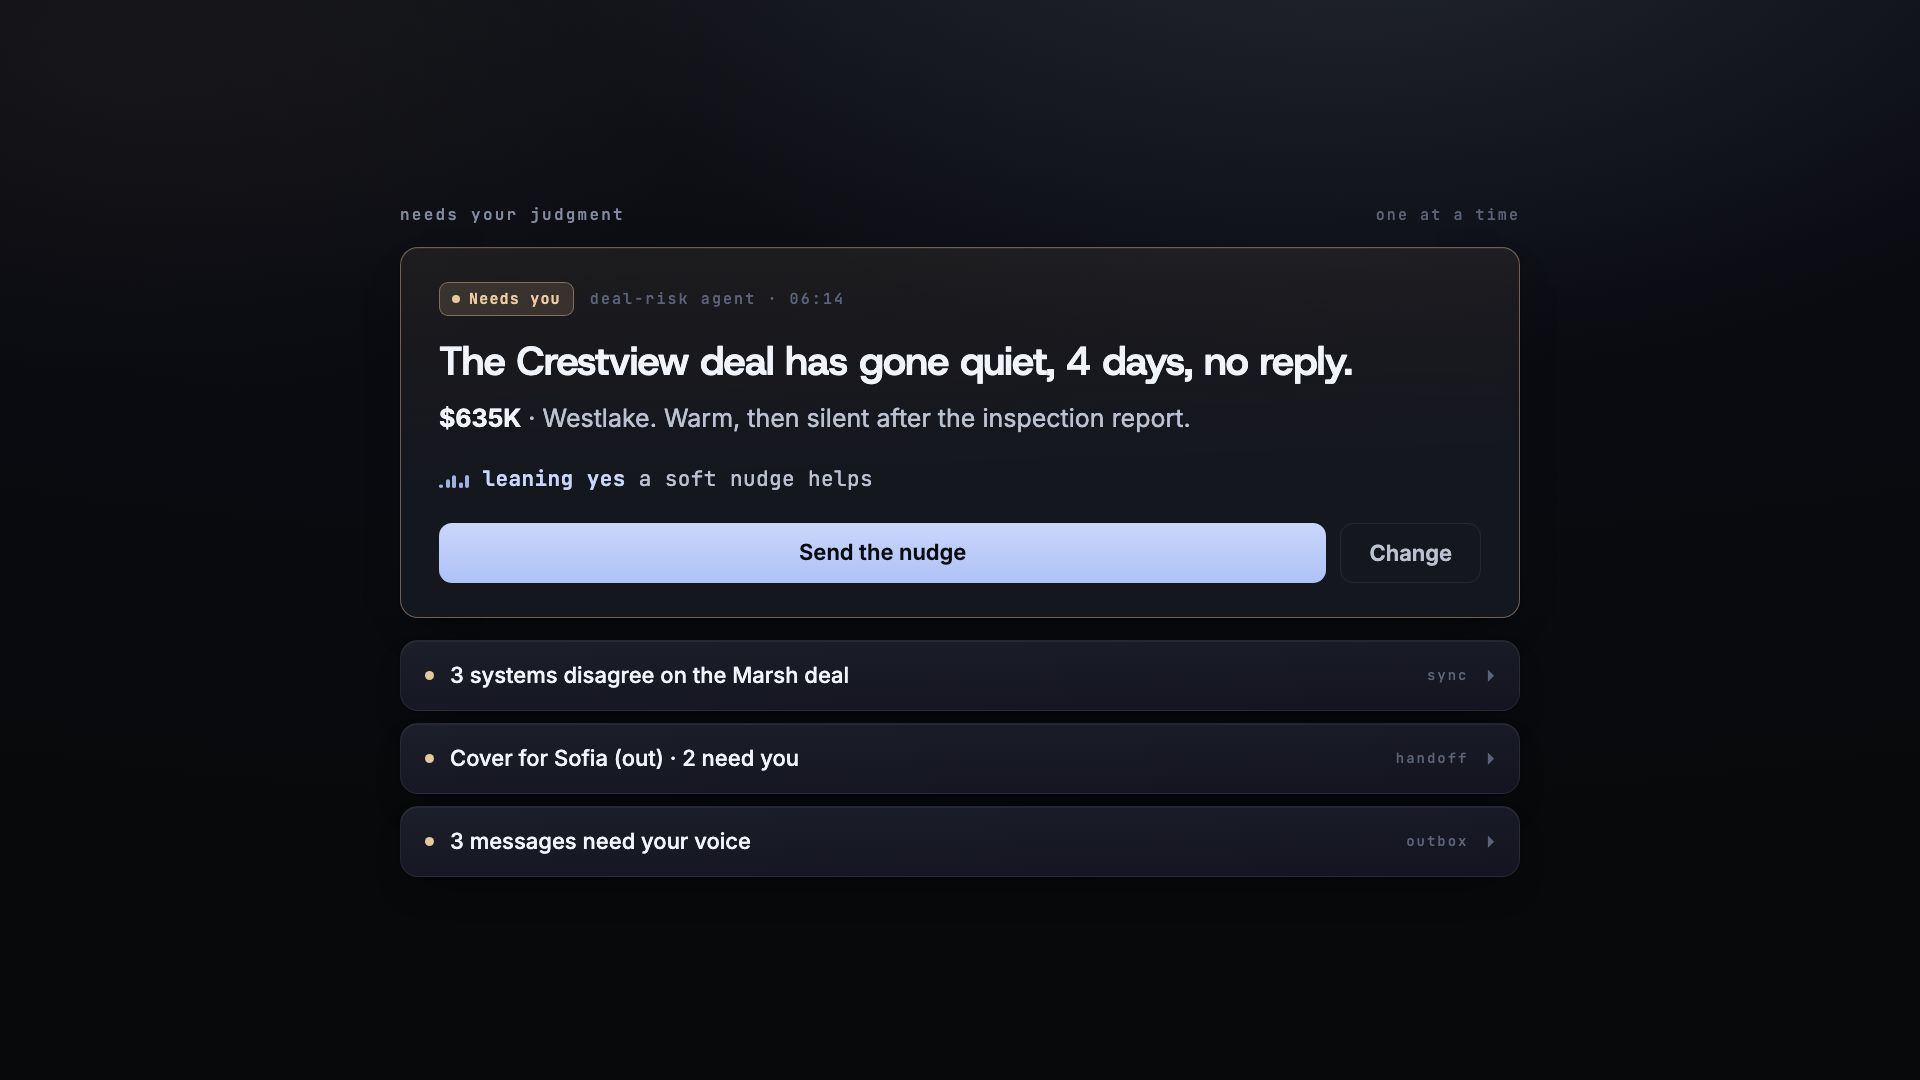
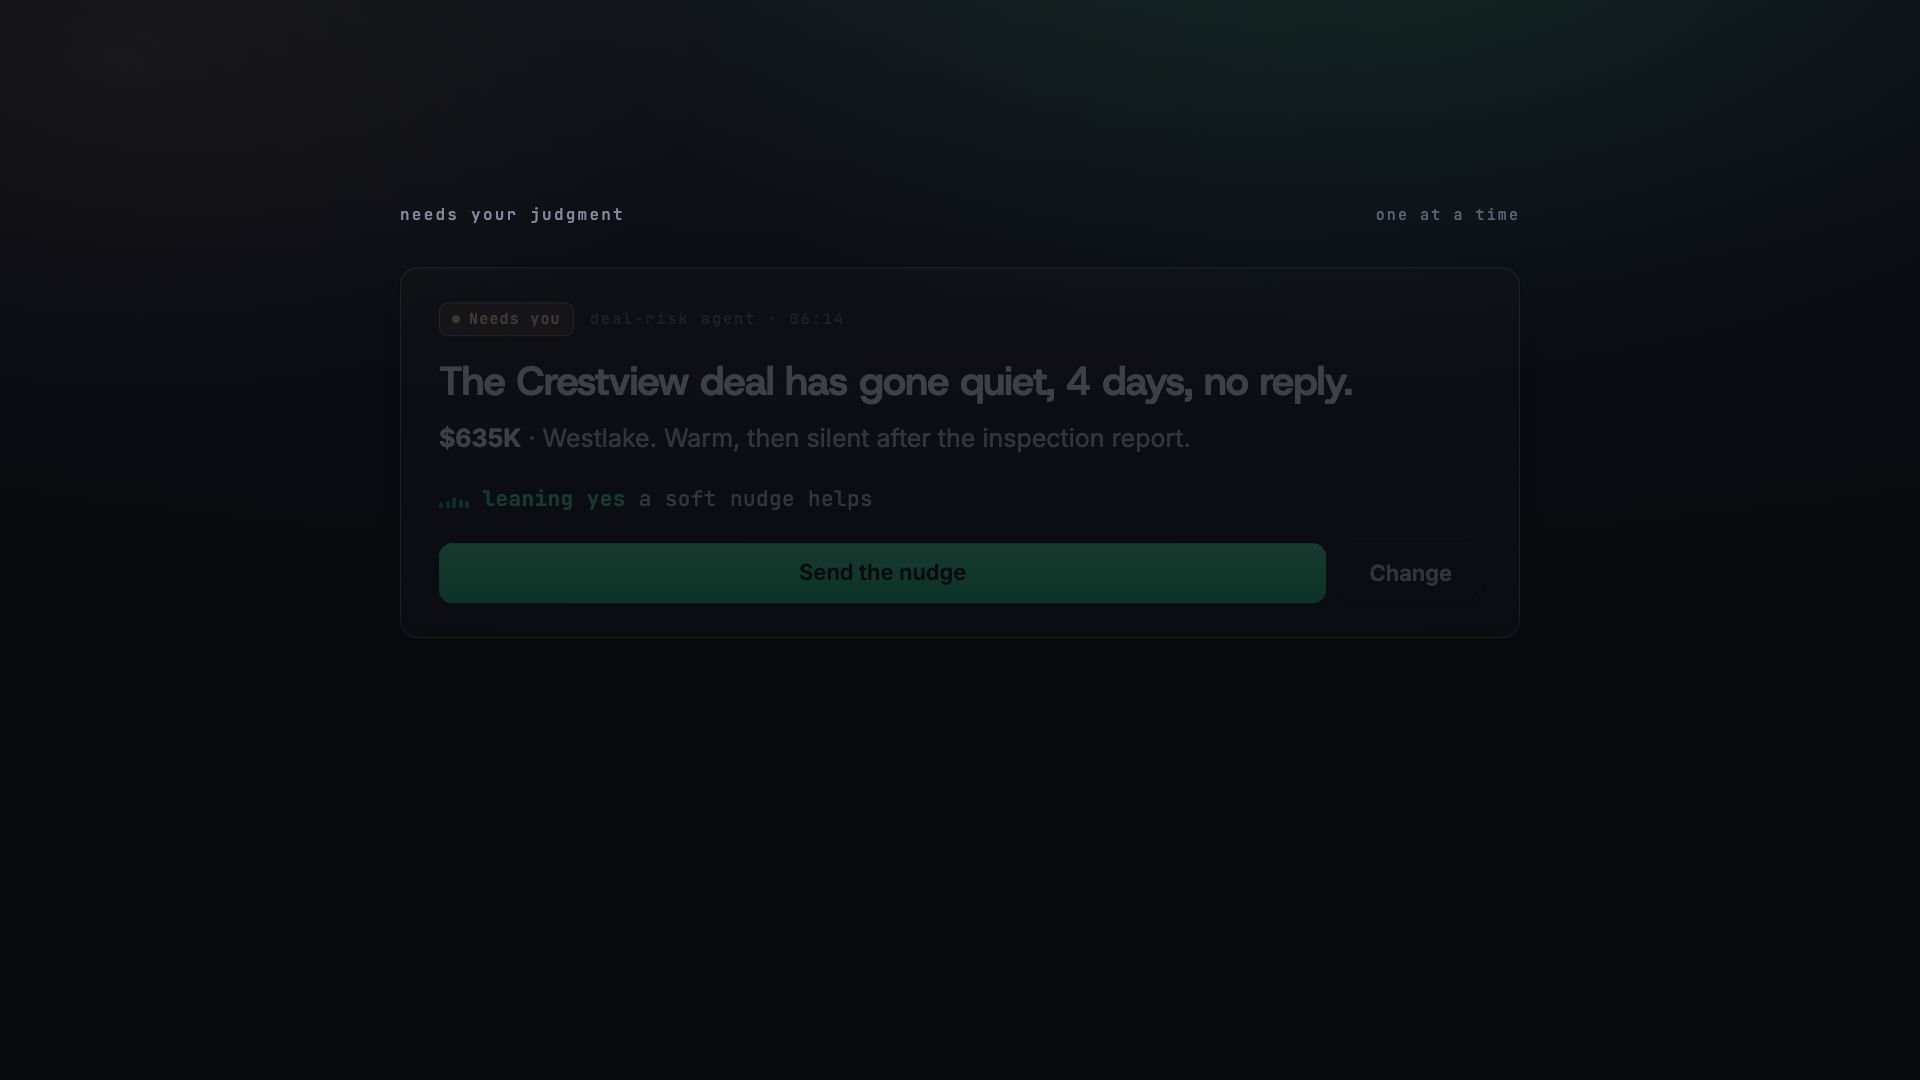
Re-render all 3 product films in emerald; sync README + film source off periwinkle
- films/src (theme, components, all 3 compositions): periwinkle tokens
  recolored to the emerald system, every residual rgb caught
- films/*.mp4 + posters: re-rendered clean (no edits mid-batch)
- README.md: 'periwinkle world' globe copy -> emerald
- films/README.md: dropped the stale 'still periwinkle' note; fixed a
  stray '62%' to 'leaning yes' (no fake percentages, per thesis)
- removed stale .vercel/output periwinkle build cache (untracked)

Changed region(s): [[0.1875, 0.2444, 0.8125, 0.825]]

diff --git a/films/src/theme.ts b/films/src/theme.ts
@@ -1,6 +1,6 @@
 /**
  * Real · morning command center — brand tokens.
- * Dark premium. Near-black canvas, periwinkle accent that glows on dark,
+ * Dark premium. Near-black canvas, emerald accent that glows on dark,
  * warm sand reserved for what needs a human. Matched to the prototype
  * (command-center.html) and the design system (09-design-system.md).
  */
@@ -16,15 +16,15 @@ export const C = {
   subtle: '#5C6378',
   hair: 'rgba(255,255,255,0.07)',
   hairSoft: 'rgba(255,255,255,0.04)',
-  // periwinkle: the AI, the calm, the interactive
-  accent: '#AEC2F6',
-  accentHi: '#CBD6FB',
+  // emerald: the AI, the calm, the interactive
+  accent: '#15C07A',
+  accentHi: '#46DD9B',
   accentInk: '#0B0C12',
-  accentSoft: 'rgba(174,194,246,0.14)',
-  accentLine: 'rgba(174,194,246,0.32)',
-  accentTint: 'rgba(174,194,246,0.12)',
-  good: '#9BB4E5',
-  goodSoft: 'rgba(155,180,229,0.12)',
+  accentSoft: 'rgba(21,192,122,0.14)',
+  accentLine: 'rgba(21,192,122,0.32)',
+  accentTint: 'rgba(21,192,122,0.12)',
+  good: '#79B89C',
+  goodSoft: 'rgba(121,184,156,0.12)',
   // warm sand: what needs a human
   sand: '#E7C79C',
   sandText: '#ECCBA0',
@@ -50,7 +50,7 @@ export const HEIGHT = 1080;
 // The atmospheric background: a soft dark radial gradient like the explorations
 // page, top-lit and still. Never a blur, never behind running body text.
 export const ATMOSPHERE =
-  'radial-gradient(1400px 820px at 72% -10%, rgba(174,194,246,0.10), transparent 60%),' +
+  'radial-gradient(1400px 820px at 72% -10%, rgba(21,192,122,0.10), transparent 60%),' +
   'radial-gradient(1100px 640px at 6% 6%, rgba(231,199,156,0.045), transparent 55%),' +
   'radial-gradient(150% 95% at 50% -18%, #17191E 0%, #0B0C12 52%, #08090B 100%)';
 

diff --git a/films/src/components/StateDots.tsx b/films/src/components/StateDots.tsx
@@ -2,7 +2,7 @@ import React from 'react';
 import {interpolate, useCurrentFrame} from 'remotion';
 import {C, FONT, FPS} from '../theme';
 
-/** Thinking: a calm breathing periwinkle dot, never a blocking spinner. */
+/** Thinking: a calm breathing emerald dot, never a blocking spinner. */
 export const ThinkingDot: React.FC<{size?: number}> = ({size = 22}) => {
   const frame = useCurrentFrame();
   const t = Math.sin((frame / (FPS * 1.6)) * Math.PI * 2);
@@ -86,7 +86,7 @@ export const DoneTick: React.FC<{size?: number; drawAt?: number}> = ({size = 40,
   const frame = useCurrentFrame();
   const p = interpolate(frame, [drawAt, drawAt + 14], [26, 0], {extrapolateLeft: 'clamp', extrapolateRight: 'clamp'});
   return (
-    <div style={{width: size, height: size, borderRadius: '50%', background: C.goodSoft, display: 'grid', placeItems: 'center', border: `1px solid rgba(155,180,229,0.4)`}}>
+    <div style={{width: size, height: size, borderRadius: '50%', background: C.goodSoft, display: 'grid', placeItems: 'center', border: `1px solid rgba(121,184,156,0.4)`}}>
       <svg viewBox="0 0 24 24" width={size * 0.5} height={size * 0.5} fill="none" stroke={C.good} strokeWidth={3} strokeLinecap="round" strokeLinejoin="round">
         <path d="M5 13l4 4L19 7" strokeDasharray={26} strokeDashoffset={p} />
       </svg>

diff --git a/films/src/components/Atmosphere.tsx b/films/src/components/Atmosphere.tsx
@@ -4,7 +4,7 @@ import {ATMOSPHERE, C} from '../theme';
 
 /**
  * The still, dark, top-lit canvas every film sits on. A single very slow
- * brightness drift on the periwinkle glow keeps it alive without ever
+ * brightness drift on the emerald glow keeps it alive without ever
  * reading as motion (the design system: the gradient is "still").
  */
 export const Atmosphere: React.FC<{children?: React.ReactNode}> = ({children}) => {

diff --git a/films/src/components/Card.tsx b/films/src/components/Card.tsx
@@ -33,7 +33,7 @@ export const Chip: React.FC<{
   const map = {
     accent: {color: C.accentHi, border: C.accentLine, bg: C.accentSoft, dot: C.accent},
     sand: {color: C.sandText, border: C.sandLine, bg: C.sandSoft, dot: C.sand},
-    good: {color: C.good, border: 'rgba(155,180,229,0.4)', bg: C.goodSoft, dot: C.good},
+    good: {color: C.good, border: 'rgba(121,184,156,0.4)', bg: C.goodSoft, dot: C.good},
     muted: {color: C.muted, border: C.hair, bg: 'transparent', dot: C.muted},
   }[tone];
   return (

diff --git a/films/src/components/EndCard.tsx b/films/src/components/EndCard.tsx
@@ -3,7 +3,7 @@ import {AbsoluteFill, useCurrentFrame} from 'remotion';
 import {C, FONT} from '../theme';
 import {fade, softSpring} from './motion';
 
-/** The Leo mark: a soft periwinkle orb with a gentle glow. The calm signature. */
+/** The Leo mark: a soft emerald orb with a gentle glow. The calm signature. */
 export const LeoMark: React.FC<{size?: number; pulseFrom?: number}> = ({size = 64, pulseFrom = 0}) => {
   const frame = useCurrentFrame();
   const s = softSpring(frame, pulseFrom);

diff --git a/films/src/compositions/AiStates.tsx b/films/src/compositions/AiStates.tsx
@@ -18,7 +18,7 @@ import {EndCard} from '../components/EndCard';
  * Film 2 · aiStates — "The five ways Leo speaks."
  * The heaviest evaluation axis, so the most refined. Five beats, each the
  * state named with its own motion and a line in Leo's voice (verbatim from
- * the prototype). Calm fades, periwinkle for the AI, warm sand for what
+ * the prototype). Calm fades, emerald for the AI, warm sand for what
  * needs a human. 840 frames @ 30fps = 28s.
  */
 

diff --git a/films/src/compositions/Orchestration.tsx b/films/src/compositions/Orchestration.tsx
@@ -82,7 +82,7 @@ const Field: React.FC = () => {
           // non-passing dots dim and dissolve as they approach the gate
           const reach = interpolate(d.y0 + flowY, [GATE_Y - 120, GATE_Y - 10], [1, 0], {extrapolateLeft: 'clamp', extrapolateRight: 'clamp'});
           opacity = driftIn * (0.35 + 0.25 * Math.sin(frame / 30 + d.phase)) * reach;
-          // a few near the neck briefly glow periwinkle as "being considered"
+          // a few near the neck briefly glow emerald as "being considered"
           if (flow > 0.3 && random(`c${i}`) > 0.7) {
             color = C.accent;
             opacity *= 1.1;

diff --git a/films/src/compositions/ProductOverview.tsx b/films/src/compositions/ProductOverview.tsx
@@ -16,7 +16,7 @@ import {ThinkingDot, DoneTick} from '../components/StateDots';
  * prototype (command-center.html).
  */
 
-// A confidence wave, frame-driven (equalizer that breathes). Periwinkle.
+// A confidence wave, frame-driven (equalizer that breathes). Emerald.
 const ConfWave: React.FC<{bars?: number[]; muted?: boolean}> = ({
   bars = [6, 10, 16, 9, 13],
   muted = false,

diff --git a/films/README.md b/films/README.md
@@ -2,15 +2,15 @@
 
 Three short product films in the "morning command center" dark-premium brand,
 built with [Remotion](https://www.remotion.dev) v4 (React + TypeScript). They
-render at 1920×1080, 30fps, h264. These films were rendered in an earlier pass and still show the periwinkle palette; the shipped app has since moved to the emerald system in the
+render at 1920×1080, 30fps, h264. They are rendered in the emerald system shared with the
 prototype (`../prototype/command-center.html`) and the design system
-(`../docs/09-design-system.md`): near-black canvas, an accent color, and warm sand reserved for the few things that need a human.
+(`../docs/09-design-system.md`): near-black canvas, an emerald accent, and warm sand reserved for the few things that need a human.
 
 ## The films
 
 | File | Composition id | Length | What it is |
 |---|---|---|---|
-| `product-overview.mp4` | `productOverview` | 40s (1200f) | The morning command center: a dark open, "Good morning, Dana", the trust ledger assembling (47 handled overnight, 2 need you, 1 corrected), the focus-card triage (the Crestview deal gone quiet, 62% sure a nudge helps), Leo's Oak St counter (hold at $612K, reviewed before send), the team SLA breach (a hot lead waited 3h 12m on Marcus), closing on the thesis "A triage, not a dashboard." |
+| `product-overview.mp4` | `productOverview` | 40s (1200f) | The morning command center: a dark open, "Good morning, Dana", the trust ledger assembling (47 handled overnight, 2 need you, 1 corrected), the focus-card triage (the Crestview deal gone quiet, leaning yes on a soft nudge), Leo's Oak St counter (hold at $612K, reviewed before send), the team SLA breach (a hot lead waited 3h 12m on Marcus), closing on the thesis "A triage, not a dashboard." |
 | `ai-states.mp4` | `aiStates` | 28s (840f) | The five ways Leo speaks, each a motion beat in Leo's voice: Thinking (a breathing dot, "reading 14 comps"), Confident ("Done. Here is what changed." with an 8-second undo ring draining), Uncertain ("I am fairly sure. A fair counter is $605K to $618K." with two options), Silent ("47 handled overnight, chose not to interrupt you"), and Wrong then corrected (the Fair-Housing save). |
 | `orchestration.mp4` | `orchestration` | 26s (780f) | "100+ agents" as a calm drifting field of dots, flowing down through a filter labelled "uncertain · high stakes · needs your voice", narrowing to "so three reached you". The many become the few. Ends on "100+ agents, one calm front door." |
 
@@ -30,9 +30,9 @@ npx remotion render aiStates       ai-states.mp4
 npx remotion render orchestration  orchestration.mp4
 
 # the poster stills (jpg, a representative frame each)
-npx remotion still productOverview product-overview-poster.jpg --frame=520
-npx remotion still aiStates         ai-states-poster.jpg       --frame=405
-npx remotion still orchestration    orchestration-poster.jpg   --frame=320
+npx remotion still productOverview product-overview-poster.jpg --frame=420
+npx remotion still aiStates         ai-states-poster.jpg       --frame=300
+npx remotion still orchestration    orchestration-poster.jpg   --frame=300
 ```
 
 To preview and scrub interactively: `npm start` (opens Remotion Studio).

diff --git a/README.md b/README.md
@@ -11,7 +11,7 @@ The fastest way in is **[index.html](index.html)**, the visual front door that l
 
 Open `prototype/command-center.html` in any modern browser (best on a laptop; it renders a phone). A three-step welcome sets the morning (a hundred agents overnight, the noise sorted, only what needs you), then it opens into the Today command center. The status pill is a live Dynamic Island that morphs to carry Leo's notices, starting with the new lead the moment you arrive. The command center itself:
 
-1. A calm visual header opens it. The top of Today is a globe banner: a faded, slowly rotating periwinkle world (a real WebGL globe over a static fallback, so it reads either way) with Leo's live portfolio read alongside, "$14.2M pipeline, 22 live across 6 metros." The banner stays pinned as the triage scrolls up over it.
+1. A calm visual header opens it. The top of Today is a globe banner: a faded, slowly rotating emerald world (a real WebGL globe over a static fallback, so it reads either way) with Leo's live portfolio read alongside, "$14.2M pipeline, 22 live across 6 metros." The banner stays pinned as the triage scrolls up over it.
 2. The cards rise in. Anchored at the top is the trust ledger, which reads "47 handled overnight · 2 need you · 1 corrected." That is the first beat: proof the night was handled before anything asks for you.
 3. Below it, the triage. One focus card at a time, the rest collapsed, ranked by what is at stake across your own deals and your team's.
 4. The few things that need judgment, in order: